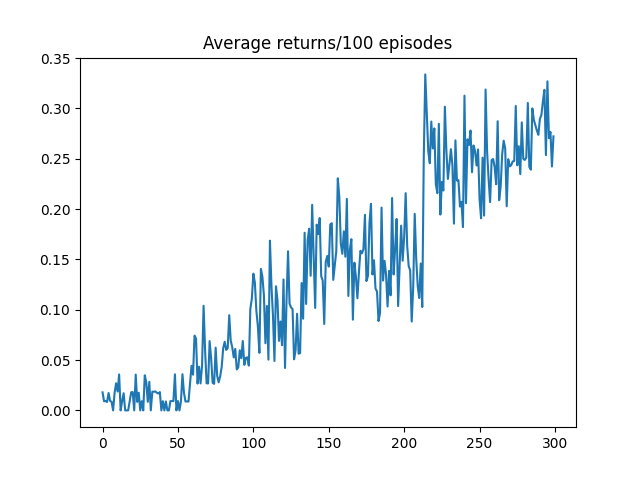
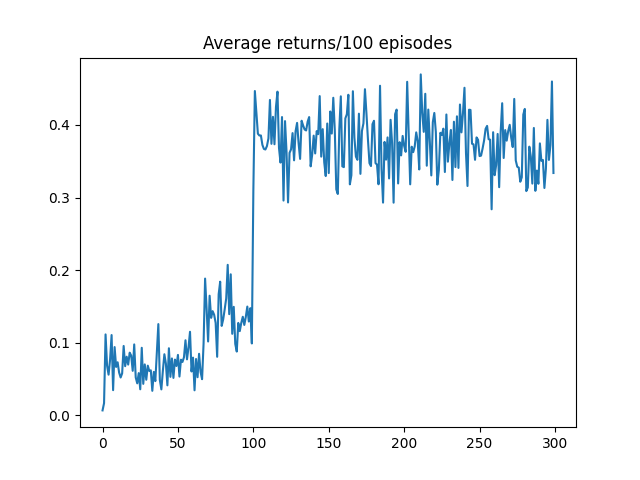
stop random action selection when action values for a state are all equal

diff --git a/q-learning/agent.py b/q-learning/agent.py
@@ -56,10 +56,7 @@ class QLearnerAgent:
         """
         s_row = self.q_table[observation]
         argmax = np.argmax(s_row) # Select action with highest return = index of highest value el. in this array
-        if np.all(s_row == s_row[0]): # return random action to avoid getting stuck in initial state (= whenever all actions yield eq. returns)
-            return np.random.randint(0, 4)
-        else:
-            return argmax
+        return argmax
 
     def act(self, observation: int, training: bool = True) -> int:
         """
